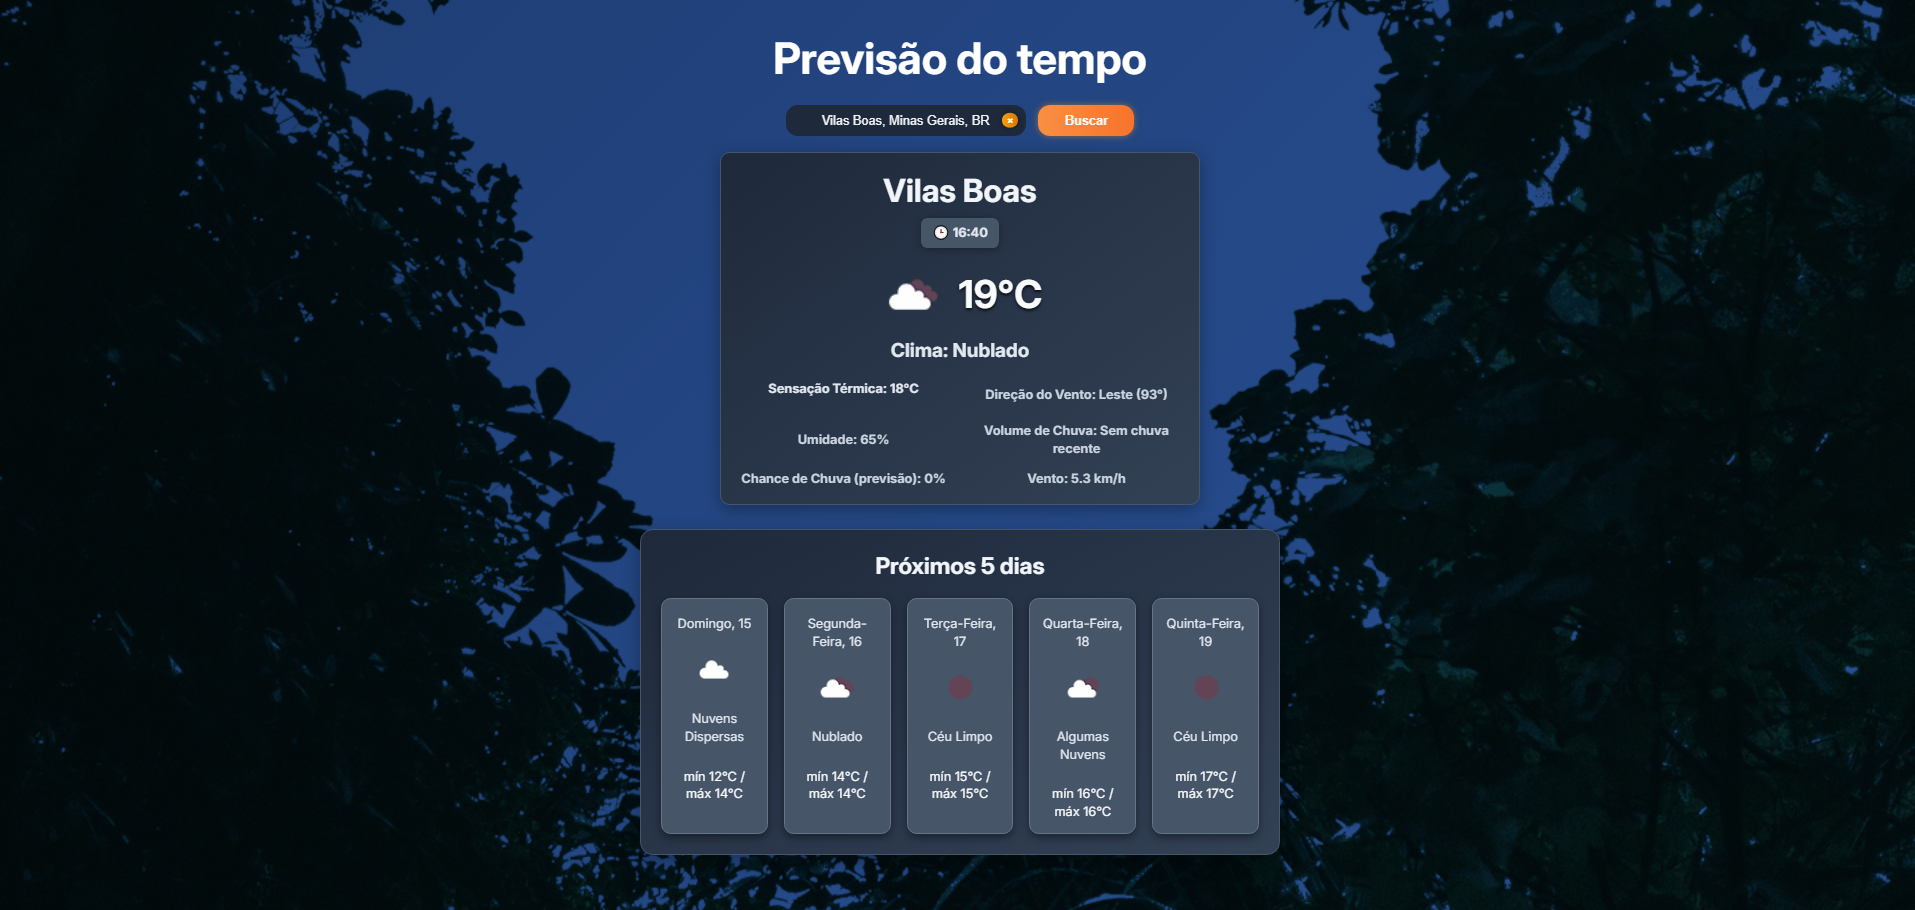
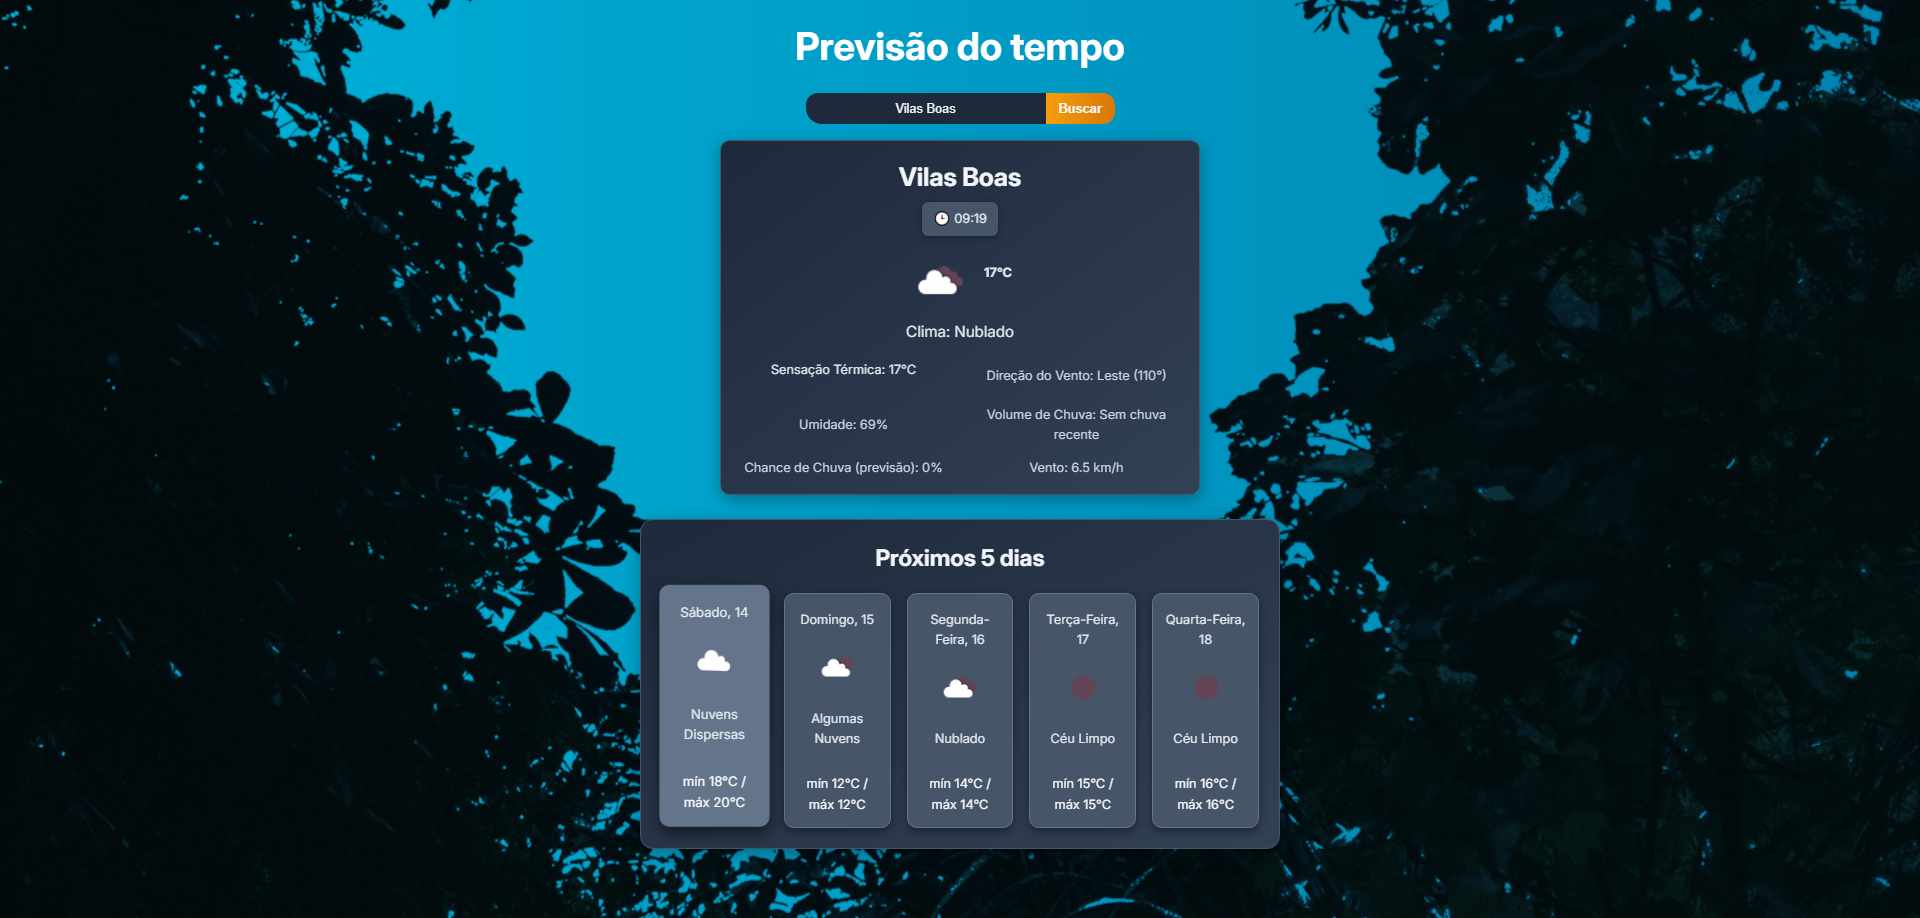
🎈

diff --git a/src/App.jsx b/src/App.jsx
@@ -2,7 +2,7 @@ import { useState, useRef } from "react";
 import axios from "axios";
 import "./App.css";
 import WeatherInformations from "./components/WeatherInformations/WeatherInformations";
-import WeatherInformations5Days from "./components/WeatherInformations5Days/WeatherInformations5Days";
+import WeatherInformations5Days from "./components/WeatherInformations5days/WeatherInformations5days";
 
 function App() {
   const [weather, setWeather] = useState();
@@ -14,24 +14,23 @@ function App() {
   const [inputValue, setInputValue] = useState("");
   const inputRef = useRef();
 
-  async function searchLocalTimeAndRain(lat, lon) {
-    const key = "38cde37e61fe4ce99a8225813251306"; // WeatherAPI
-    const url = `https://api.weatherapi.com/v1/forecast.json?key=${key}&q=${lat},${lon}&days=1&lang=pt`;
+async function searchLocalTimeAndRain(lat, lon) {
+  const key = "38cde37e61fe4ce99a8225813251306"; // WeatherAPI
+  const url = `https://api.weatherapi.com/v1/forecast.json?key=${key}&q=${lat},${lon}&days=1&lang=pt`;
 
-    try {
-      const response = await axios.get(url);
-      const time = response.data.location.localtime;
-      const hourOnly = time.split(" ")[1];
-      const rain = response.data.forecast.forecastday[0].day.daily_chance_of_rain;
+  try {
+    const response = await axios.get(url);
+    const localDateTime = response.data.location.localtime;  
+    const rain = response.data.forecast.forecastday[0].day.daily_chance_of_rain;
 
-      setLocalTime(hourOnly);
-      setRainChance(rain);
-    } catch (error) {
-      console.error("Erro ao buscar hora local ou chance de chuva:", error);
-      setLocalTime("Indisponível");
-      setRainChance(null);
-    }
+    setLocalTime(localDateTime); 
+    setRainChance(rain);
+  } catch (error) {
+    console.error("Erro ao buscar hora local ou chance de chuva:", error);
+    setLocalTime("Indisponível");
+    setRainChance(null);
   }
+}
 
   async function searchCity(cityParam) {
     const city = cityParam || inputRef.current.value;

diff --git a/src/components/WeatherInformations/WeatherInformations.jsx b/src/components/WeatherInformations/WeatherInformations.jsx
@@ -32,7 +32,26 @@ function WeatherInformations({ weather, localTime, rainChance }) {
   return (
     <div className="weather-container">
       <h2>{cityName}</h2>
-      <p className="hora-local">🕒 {localTime}</p>
+
+      {localTime && localTime !== "Indisponível" && (
+        <div className="hora-local" style={{ marginBottom: '10px', textAlign: 'center' }}>
+          <p style={{ margin: '0', fontSize: '1.1rem' }}>
+            🕒 {localTime.split(' ')[1]}
+          </p>
+          <p style={{ margin: '0', fontSize: '1rem', opacity: 0.8 }}>
+            📅 {(() => {
+              const [dataPart] = localTime.split(' ');
+              const [ano, mes, dia] = dataPart.split('-');
+              const meses = [
+                'janeiro', 'fevereiro', 'março', 'abril', 'maio', 'junho',
+                'julho', 'agosto', 'setembro', 'outubro', 'novembro', 'dezembro'
+              ];
+              return `${dia} de ${meses[parseInt(mes, 10) - 1]} de ${ano}`;
+            })()}
+          </p>
+        </div>
+      )}
+
       <div className="weather-info">
         <img
           src={`http://openweathermap.org/img/wn/${weather.weather[0].icon}.png`}
@@ -42,13 +61,13 @@ function WeatherInformations({ weather, localTime, rainChance }) {
           style={{ filter: "hue-rotate(47deg) saturate(1300%) brightness(1.05)" }}
         />
         <p className="temperaturee" style={{
-     fontSize: '3rem',
-    fontWeight: 'bold',
-    color: '#f8fafc',
-    textShadow: '0 2px 4px rgba(0, 0, 0, 0.82)',
-    textAlign: 'center',
-    margin: 0
-  }}>{temperature}°C</p>
+          fontSize: '3rem',
+          fontWeight: 'bold',
+          color: '#f8fafc',
+          textShadow: '0 2px 4px rgba(0, 0, 0, 0.82)',
+          textAlign: 'center',
+          margin: 0
+        }}>{temperature}°C</p>
       </div>
 
       <p className="description">Clima: {weather.weather[0].description}</p>

diff --git a/index.html b/index.html
@@ -6,13 +6,13 @@
     <link rel="icon" type="image/png" href="/src/assets/previsao-do-tempo.png"/>
     <title>Previsão do Tempo</title>
     <meta property="og:title" content="Previsão do Tempo"/>
-    <meta property="og:description" content="Veja a previsão do tempo atualizada da sua cidade." />
+    <meta property="og:description" content="Veja a previsão do tempo atualizada para a sua cidade." />
     <meta property="og:image" content="/src/assets/previsao-do-tempo.png"/>
     <meta property="og:url" content="https://prevdo-mundo.vercel.app/" />
     <meta property="og:type" content="website" />
     <meta name="twitter:card" content="summary_large_image" />
     <meta name="twitter:title" content="Previsão do Tempo" />
-    <meta name="twitter:description" content="Veja a previsão do tempo atualizada da sua cidade." />
+    <meta name="twitter:description" content="Veja a previsão do tempo atualizada para a sua cidade." />
     <meta name="twitter:image" content="/src/assets/previsao-do-tempo.png"/>
   </head>
   <body>

diff --git a/README.md b/README.md
@@ -2,15 +2,15 @@
 
 # ☀ Previsão do Tempo
 
-**<h4>Aplicativo web de clima moderno e responsivo, desenvolvido com React + OpenWeatherMapAPI e WeatherAPI<h4/>**
+**Aplicativo web de clima moderno e responsivo, usando React + OpenWeatherMap.**
 
-🌙 Interface escura elegante • 📍 Busca por cidade e localização atual • 📆 Previsão para 5 dias • 🎨 Ícones com filtros CSS
+🌙 Interface escura elegante • 📍 Localização atual • 📆 Previsão para 5 dias • 🎨 Ícones com estilo personalizado
 
 ---
 
 ### 🌤 Preview da Interface
 
-<img src="src/assets/preview.png" alt="Preview do App" width="80%"/>
+<img src="https://raw.githubusercontent.com/MarcoALR/PrevdoTempo/main/src/assets/preview.png" alt="Preview do App" width="80%"/>
 
 </div>
 
@@ -18,13 +18,12 @@
 
 ## 🔍 Funcionalidades
 
-- ☁ Clima atual: temperatura, sensação térmica e descrição do tempo
-- 🌧 Informações adicionais: umidade, volume de chuva, direção e velocidade do vento
-- 📍 Detecção de localização via navegador
-- 🧠 Sugestões de cidades com autocomplete
-- 📅 Previsão estendida para os próximos 5 dias
-- 🌗 Tema escuro com gradientes e visual moderno
-- 🎨 Ícones personalizados usando filtros CSS (`hue-rotate`, `brightness`, etc..)
+- ☁ Clima atual: temperatura, sensação térmica e descrição
+- 🌧 Volume de chuva, umidade, direção e velocidade do vento
+- 📍 Suporte à localização atual via navegador
+- 📅 Previsão para os próximos 5 dias
+- 🌗 Tema escuro moderno
+- 🎨 Ícones de clima personalizados com CSS (`hue-rotate`, `brightness`, etc.)
 
 ---
 
@@ -33,10 +32,8 @@
 - [React.js](https://reactjs.org/)
 - [Vite](https://vitejs.dev/)
 - [OpenWeatherMap API](https://openweathermap.org/api)
-- [Weather API](https://weather.com/)
-- CSS moderno (Flexbox, gradientes, variáveis)
-- React Hooks (`useState`, `useEffect`, `useRef`)
-- Axios para requisições HTTP
+- CSS moderno (Flexbox, filters, variáveis)
+- Hooks (`useEffect`, `useState`) para controle de estado
 
 ---
 
@@ -44,13 +41,13 @@
 
 ```bash
 # Clone o repositório
-git clone https://github.com/MarcoALR/PrevdoTempo.git
+git clone https://github.com/MarcoALR/PrevisaodoTempo.git
 
-# Acesse a pasta do projeto
-cd PrevdoTempo
+# Acesse a pasta
+cd PrevisaodoTempo
 
 # Instale as dependências
 npm install
 
-# Inicie o servidor de desenvolvimento
+# Rode o projeto
 npm run dev
